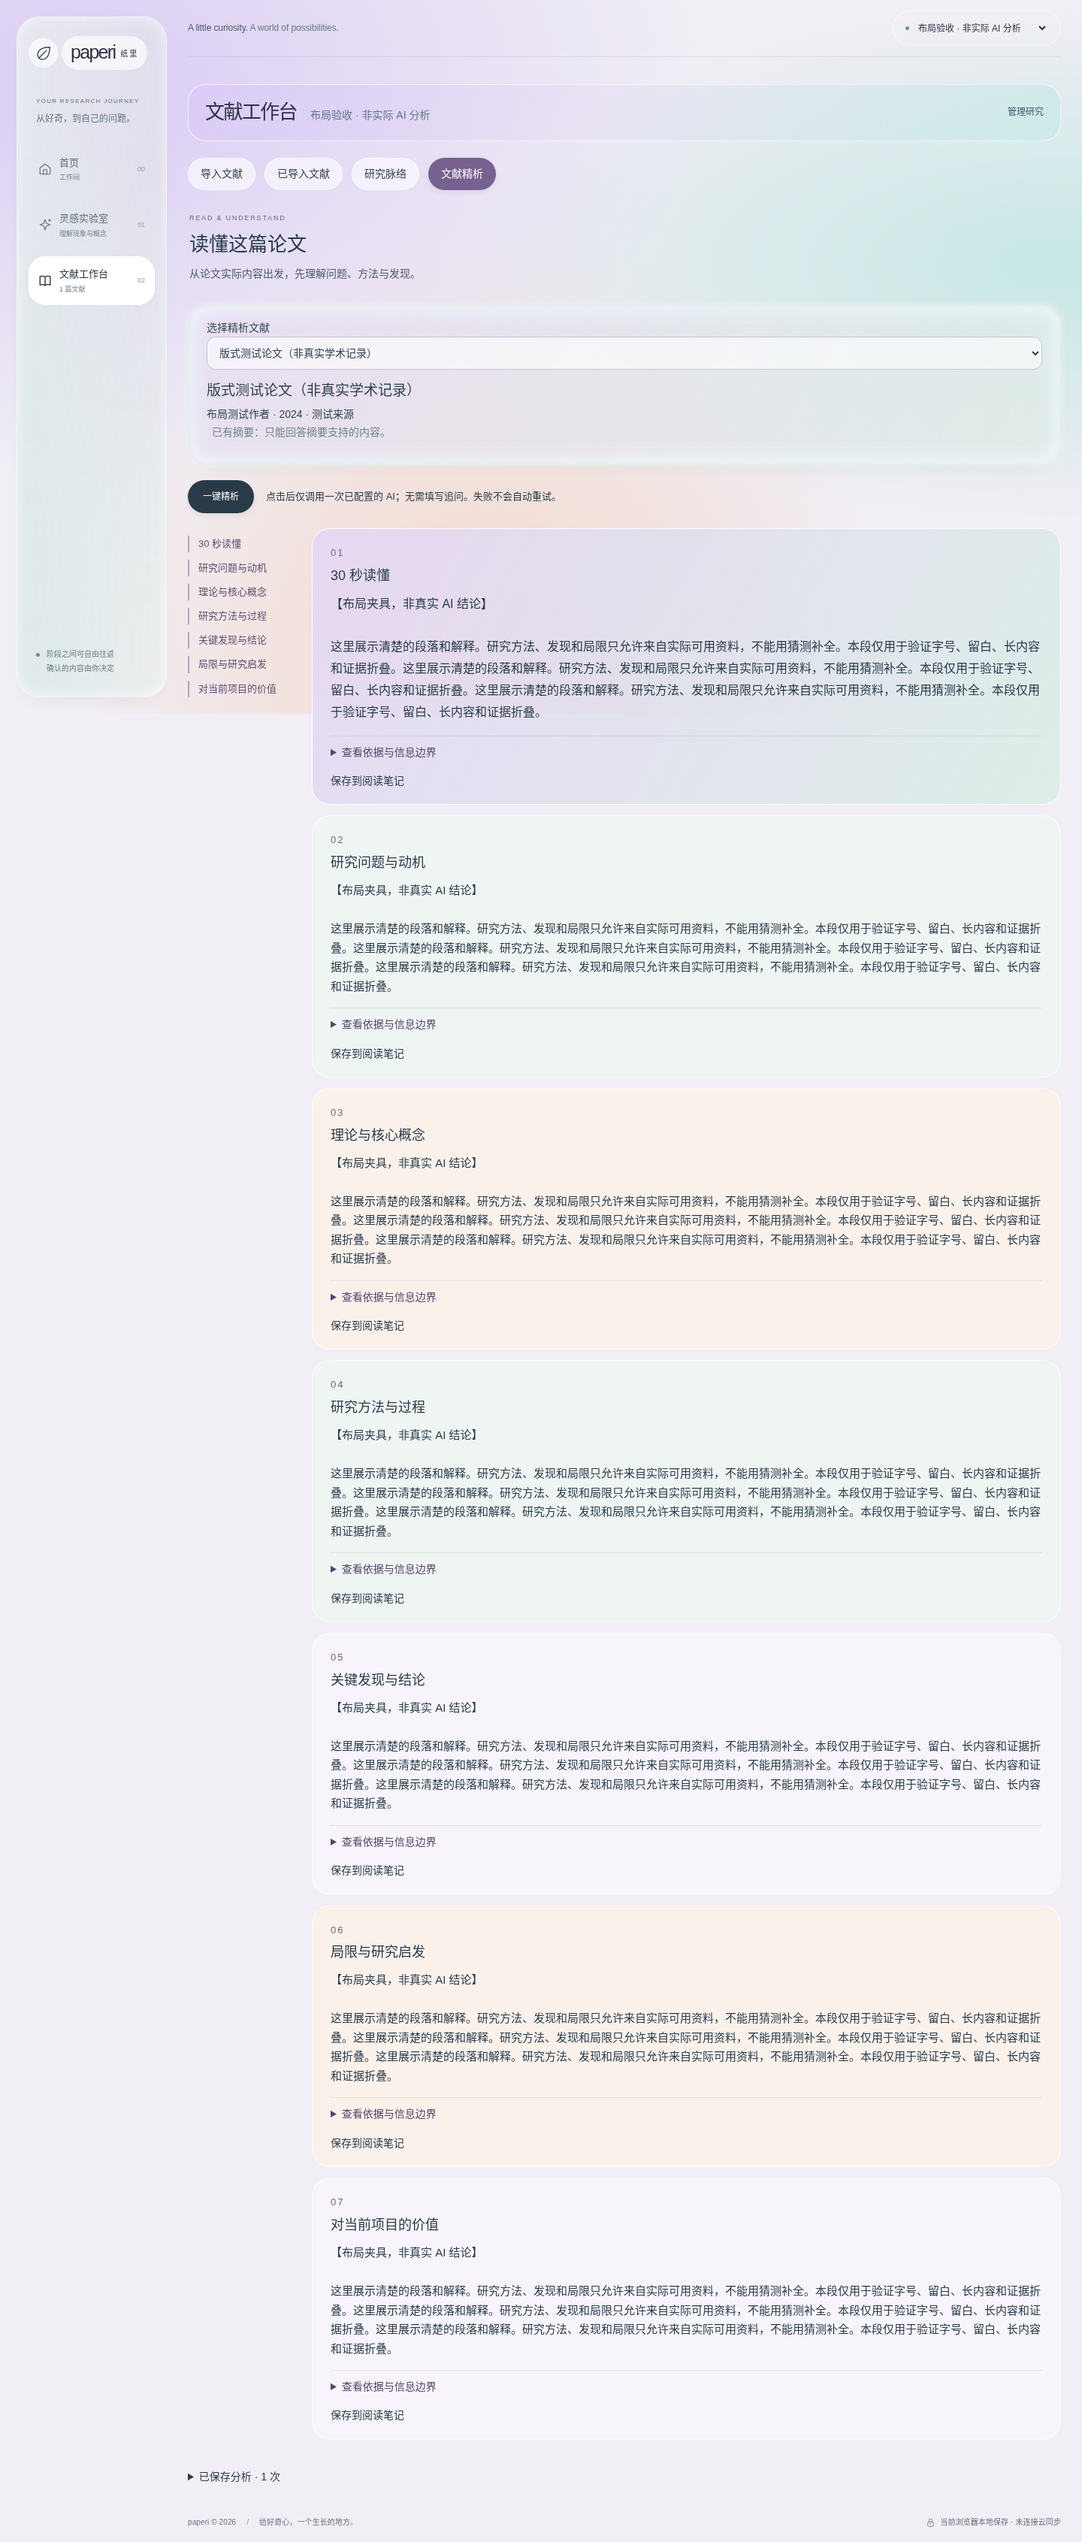
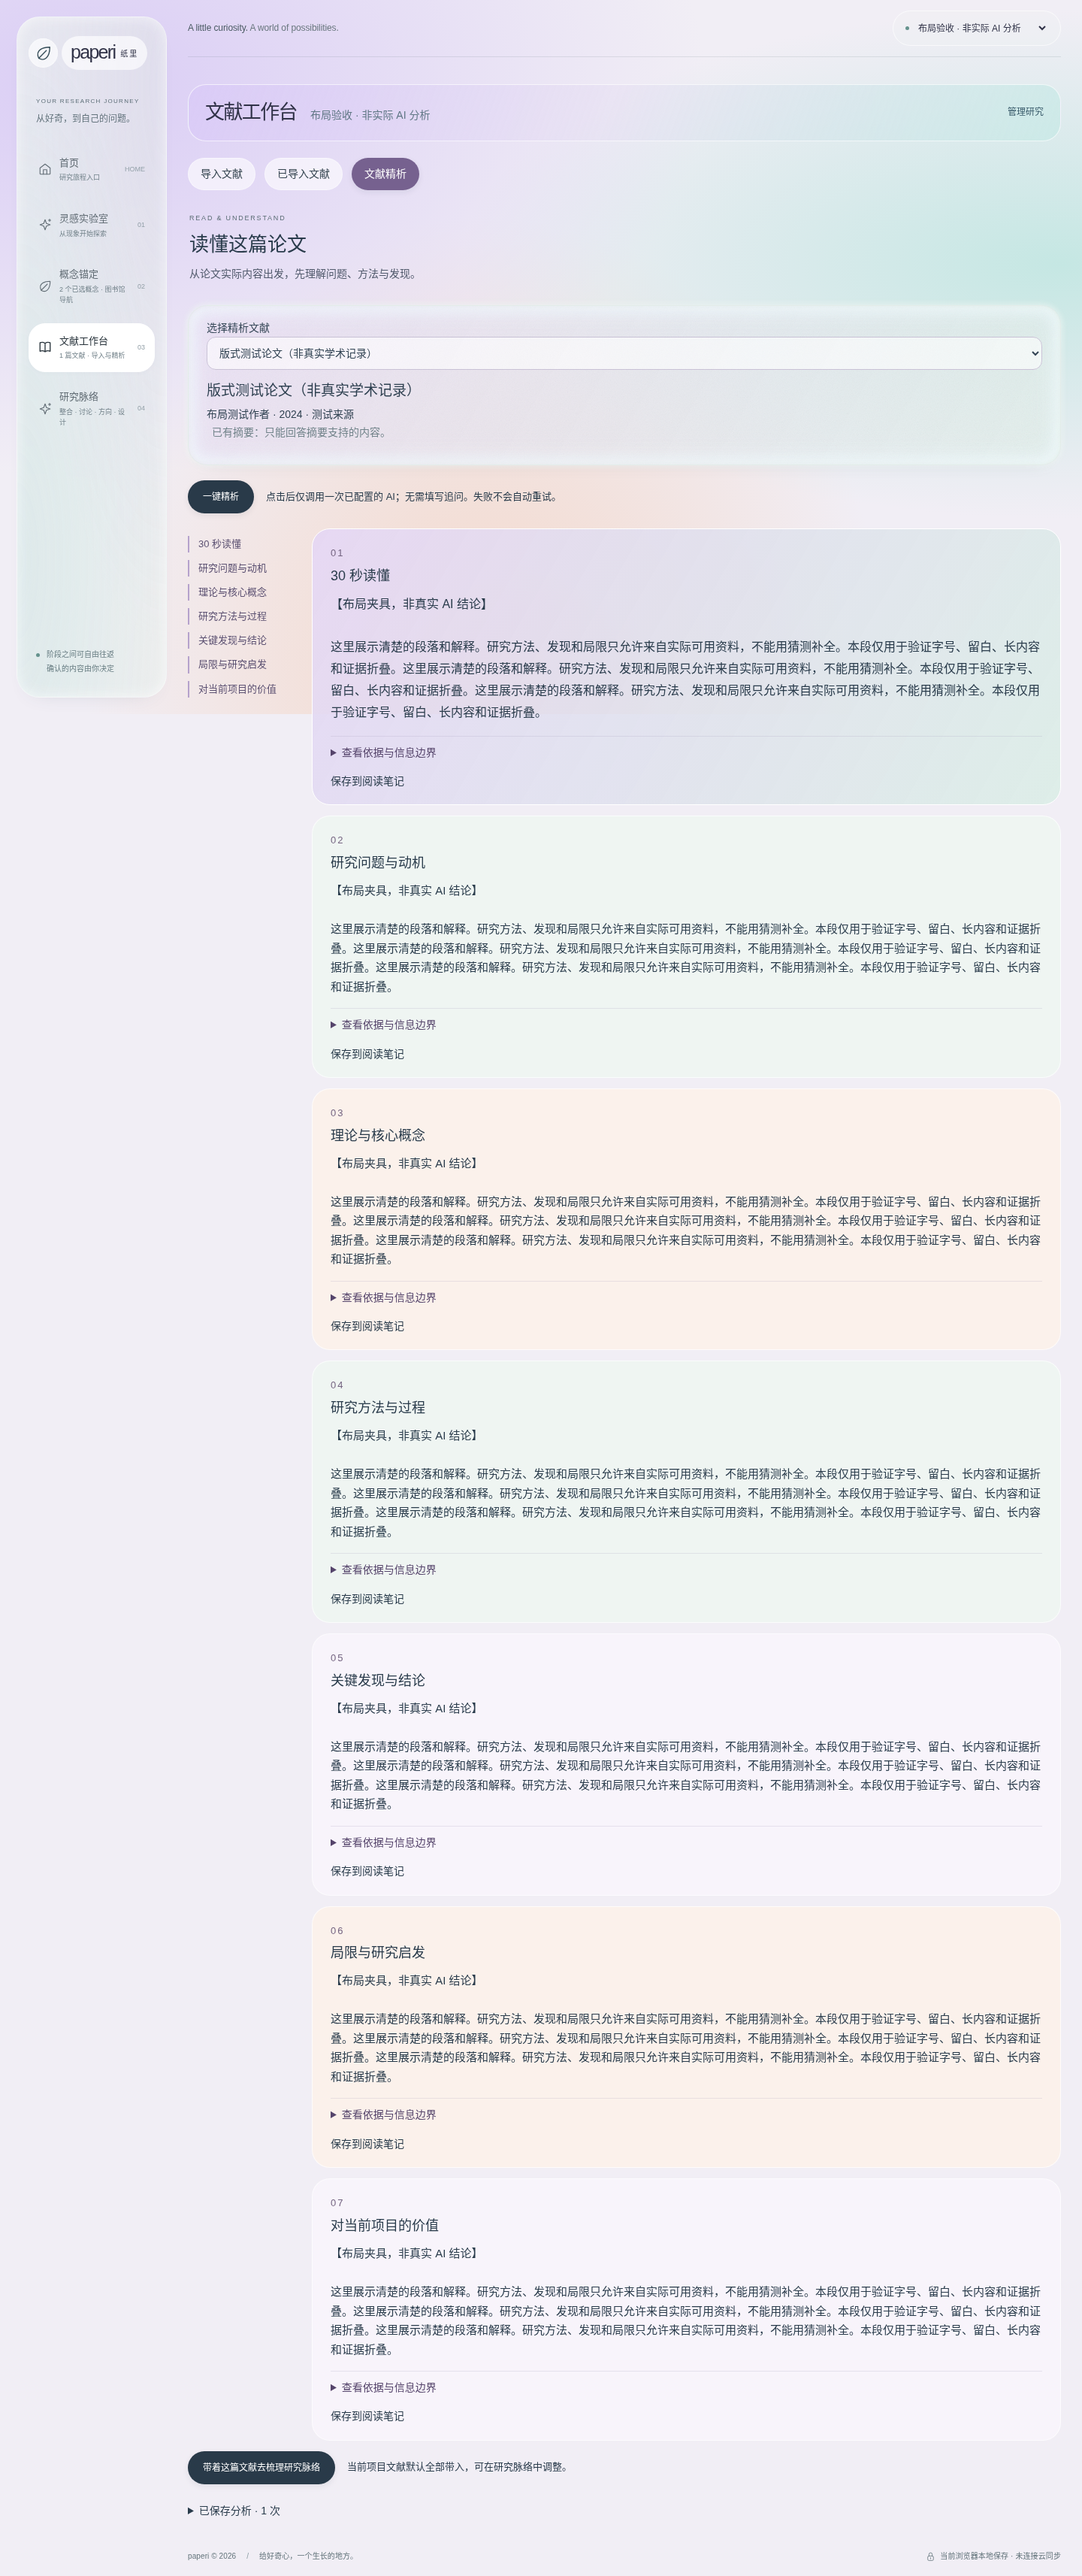
Finalize research journey acceptance, visual consistency and draft protection

diff --git a/src/components/research-journey.tsx b/src/components/research-journey.tsx
@@ -2,6 +2,7 @@
 import Link from "next/link";
 import { useEffect, useRef, useState } from "react";
 import type { Project } from "@/lib/projects";
+import { isRecord } from "@/lib/exploration";
 import {
   emptyWorkflow,
   workflowEvidence,
@@ -61,7 +62,10 @@ const recoveryKey = (id: string) => `paperi.research.inputs.${id}`;
 function recoveredState(p: Project) {
   const saved = researchState(p);
   try {
-    const raw = JSON.parse(localStorage.getItem(recoveryKey(p.id)) ?? "{}");
+    const raw: unknown = JSON.parse(
+      localStorage.getItem(recoveryKey(p.id)) ?? "{}",
+    );
+    if (!isRecord(raw)) return saved;
     const next = { ...saved };
     for (const key of [
       "discussionDraft",
@@ -69,11 +73,31 @@ function recoveredState(p: Project) {
       "directionDraft",
     ] as InputKey[]) {
       const field = raw[key];
-      if (field && JSON.stringify(field.base) === JSON.stringify(saved[key])) {
-        Object.assign(next, { [key]: field.value });
+      if (
+        isRecord(field) &&
+        JSON.stringify(field.base) === JSON.stringify(saved[key])
+      ) {
+        const candidate = { ...next, [key]: field.value };
+        const direction = candidate.directionDraft;
+        // An unfinished title is recoverable input; it is never accepted as a saved direction.
+        const checked =
+          isRecord(direction) &&
+          isRecord(direction.card) &&
+          typeof direction.card.title === "string" &&
+          !direction.card.title.trim()
+            ? {
+                ...candidate,
+                directionDraft: {
+                  ...direction,
+                  card: { ...direction.card, title: "未命名方向" },
+                },
+              }
+            : candidate;
+        if (isResearchWorkspace(checked))
+          Object.assign(next, { [key]: field.value });
       }
     }
-    return isResearchWorkspace(next) ? next : saved;
+    return next;
   } catch {
     return saved;
   }
@@ -779,7 +803,7 @@ function Journey({
               role="log"
               aria-label="项目研究对话"
             >
-              <article className="message message-assistant">
+              <article className="message message-assistant chat-message">
                 <div className="message-body">
                   <p>
                     你从“{p.observation || p.name}”出发
@@ -796,7 +820,10 @@ function Journey({
                 </div>
               </article>
               {r.messages.map((m) => (
-                <article key={m.id} className={`message message-${m.role}`}>
+                <article
+                  key={m.id}
+                  className={`message message-${m.role} chat-message ${m.role === "user" ? "chat-user" : ""}`}
+                >
                   <div className="message-body">
                     <p>{m.content}</p>
                     {m.fingerprint && m.fingerprint !== fingerprint && (

diff --git a/src/components/research-design.tsx b/src/components/research-design.tsx
@@ -345,7 +345,11 @@ function DesignHistory({
       <p>旧版本始终可回看。恢复时，当前版本也会保留。</p>
       <label>
         选择历史版本
-        <select aria-label="选择历史版本" value={index} onChange={(e) => setIndex(e.target.value)}>
+        <select
+          aria-label="选择历史版本"
+          value={index}
+          onChange={(e) => setIndex(e.target.value)}
+        >
           <option value="">选择一个版本</option>
           {history.map((d, i) => (
             <option value={i} key={`${d.id}-${d.updatedAt}-${i}`}>
@@ -426,6 +430,18 @@ function DesignEditor({
       : draft.themes.length > 0 &&
         draft.questions.length > 0 &&
         !draft.outlineNeedsReview);
+  const phaseHasContent =
+    step === 0
+      ? !!draft.question.trim()
+      : step === 3
+        ? !!(draft.method.trim() || draft.analysis.trim())
+        : isQuant(draft)
+          ? step === 1
+            ? draft.variables.length > 0
+            : draft.hypotheses.length > 0
+          : step === 1
+            ? draft.themes.length > 0
+            : draft.questions.length > 0;
   function edit(next: Design) {
     const d = { ...next, confirmed: false };
     draftRef.current = d;
@@ -526,7 +542,7 @@ function DesignEditor({
     if (dirty) void save();
   };
   return (
-    <div className="rd-editor">
+    <div className="rd-editor" inert={busy} aria-busy={busy}>
       <div className="rd-editor-status">
         <span className="soft-badge">
           {draft.confirmed ? "用户已确认 · 初步方案" : "AI 建议 / 用户编辑草稿"}
@@ -580,7 +596,7 @@ function DesignEditor({
           disabled={busy || directionChanged}
           onClick={() => void generate()}
         >
-          AI 帮我梳理这一环节
+          {phaseHasContent ? "重新建议这一环节" : "AI 帮我梳理这一环节"}
         </button>
       </div>
       <p className="rd-step-note">

diff --git a/src/app/research-journey.css b/src/app/research-journey.css
@@ -459,3 +459,30 @@
 .rj-chat-sources > ul {
   padding-left: 18px;
 }
+
+/* Keep evidence labels legible on light glass and reuse the Lab's message surfaces. */
+.rj-section-grid .soft-badge,
+.rd-editor-status .soft-badge {
+  color: #405769;
+  background: #dce8edc9;
+  border: 1px solid #b5c9d17a;
+  font-size: 12px;
+  line-height: 1.5;
+}
+.rj-chat .lab-chat-heading .eyebrow {
+  color: #c2d7e2;
+}
+.rj-chat .message {
+  width: fit-content;
+}
+.rj-chat .message .message-body p {
+  font-size: 15px;
+  line-height: 1.8;
+}
+.app-shell:has(.research-journey) .global-feedback:not(:empty) {
+  position: static;
+  max-width: none;
+  margin: 0 0 12px;
+  padding: 9px 16px;
+  box-shadow: none;
+}

diff --git a/src/app/literature/page.tsx b/src/app/literature/page.tsx
@@ -13,8 +13,12 @@ export default async function Page({
   }>;
 }) {
   const { query, project, concepts, mode, history } = await searchParams;
-  if (mode === "context")
-    redirect(`/research${history === "1" ? "?history=1" : ""}`);
+  if (mode === "context") {
+    const params = new URLSearchParams();
+    if (history === "1") params.set("history", "1");
+    if (typeof project === "string") params.set("project", project);
+    redirect(`/research${params.size ? `?${params}` : ""}`);
+  }
   return (
     <Literature
       showHistory={history === "1"}

diff --git a/docs/RESEARCH_JOURNEY.md b/docs/RESEARCH_JOURNEY.md
@@ -1,6 +1,6 @@
 # Paperi：研究脉络、方向共创与初步研究设计
 
-本次增量开发以 `bb147c9` 为基线，保留原项目存储、PDF、文献精析与旧版历史。阶段 A 数据安全 checkpoint 为 `c64fb03`。
+本次增量开发以 `bb147c9` 为基线，保留原项目存储、PDF、文献精析与旧版历史。阶段 A 数据安全 checkpoint 为 `c64fb03`，阶段 B 主流程 checkpoint 为 `5182952`，均已正常推送到 `codex/paperi-stage1`。
 
 ## 入口与工作流程
 
@@ -28,9 +28,9 @@
 
 `paperi.projects.v1`、`paperi.files.v1` 保持不变。新增可选 `workflow.research`，旧项目可直接读取；旧综述/节点设计只读保留并进入完整备份。旧方向卡和脉络通过只读适配展示，不伪造迁移旧设计。
 
-脉络、讨论、候选、确认方向、两种设计各自保存。删除或更新文献只标记资料待复核，保留旧方向、设计和历史引用，可由用户解除已移除文献的关联。变更依赖包含题录、PDF、概念和已保存精析，讨论或设计编辑不会使自身无故过期。异步保存按队列合并本次变更，避免失焦保存被阶段切换覆盖。
+脉络、讨论、候选、确认方向、两种设计各自保存。删除或更新文献只标记资料待复核，保留旧方向、设计和历史引用，可由用户解除已移除文献的关联。变更依赖包含题录、PDF、概念和已保存精析，讨论或设计编辑不会使自身无故过期。异步保存按队列合并本次变更，避免失焦保存被阶段切换覆盖。设计的 AI 请求期间暂停编辑，防止返回结果覆盖等待中输入；取消入口保持可用。已有环节用“重新建议这一环节”明确区分再次付费请求。
 
-正常保存进入项目备份；未完成的输入另有按项目/方法隔离的浏览器恢复副本，版本不符时不会静默覆盖较新的已保存设计。它是输入恢复辅助，正式备份前仍请点击保存。恢复备份创建独立项目，沿用已有 PDF 所有权保护，不会删除原项目文件。
+正常保存进入项目备份；未完成的输入另有按项目/方法隔离的浏览器恢复副本，版本不符时不会静默覆盖较新的已保存设计。未完成的方向名称可以暂时留空并恢复；恢复逐字段核验，损坏的一项不会丢弃其他有效输入，正式项目和确认方向仍保留严格校验。它是输入恢复辅助，正式备份前仍请点击保存。恢复备份创建独立项目，沿用已有 PDF 所有权保护，不会删除原项目文件。
 
 ## Mac ZIP 实际验收
 
@@ -44,4 +44,10 @@
 
 ## 验证记录
 
-阶段 B 的 34 个针对性数据/API/浏览器场景已在首轮与失败复验中全部通过；其中新研究流程浏览器场景 7 项、隔离 HTTP API 场景 4 项、数据层 5 项。完整模拟流程包括三份合成 PDF 的真实解析、七维精析、脉络、讨论偏好、方向确认与两种可编辑设计。桌面 1440px、1366px 与手机 390px 已生成截图并查看。lint、typecheck、build 通过。云环境没有用户的三篇真实中文 PDF 和 AI 密钥；所有模型夹具都明确标记模拟，不代表真实 AI 学术质量验收。真实付费 API 调用为 0，实际 API 费用为 0。
+阶段 B 的 34 个针对性场景已通过，阶段 C 全量回归为 **90 项通过（2.3 分钟）**。2026-10-27 续作只补齐收尾边界；最后再做 **17 项针对性复验，全部通过（47.4 秒）**，包含新增的设计等待期保护、空标题/损坏输入独立恢复及带项目标识的旧路由隔离，没有无意义重跑全套。lint、typecheck、build 均通过。
+
+完整模拟流程包括三份合成 PDF 经真实 PDF 解析器导入、七维精析、跨文献脉络、讨论和偏好、方向修改确认、定量变量/假设与 SVG 编辑同步、质性主题与提纲、复制和打印。测试还涵盖无密钥、401、402、429、超时、坏 JSON、伪造来源、资料更新、项目隔离、保存失败只重试保存、旧数据与 PDF 副本删除保护。定量与质性 HTTP 测试以独立服务进程隔离配额，生产限流没有放宽。
+
+已在 1440px、1366px 与 390px 检查布局，查看本轮桌面聊天和手机设计截图；修正浅色卡片标签对比度，统一聊天气泡，并把研究工作区保存提示改为正文上方状态条，避免遮挡。截图位于 `docs/screenshots/research-journey/`，明确使用模拟材料。
+
+云环境没有用户的三篇真实中文 PDF 和 AI 密钥；未完成真实用户 PDF + DeepSeek 的学术质量联调。模拟通过只证明软件数据流、错误保护与交互，不能冒充真实研究成果。真实付费 API 调用 **0 次**，实际 API 费用 **0**。本地真实使用时每次 AI 操作可能按所配置服务商计费；本轮不购买额外服务。

diff --git a/README.md b/README.md
@@ -1,12 +1,12 @@
 # Paperi 纸里
 
-**把一个模糊想法，变成有文献依据、能够继续完善的研究方向。**
+**把一个模糊想法，变成有文献依据、由你参与确认的初步研究方案。**
 
-当前主流程：灵感探索 → 概念锚定 → 学校图书馆检索 → 批量导入文献 → 读懂论文 → 选择并保存研究方向卡。
+当前主流程：灵感探索 → 概念锚定与学校图书馆检索 → 导入/读懂论文 → 跨文献研究脉络 → AI 方向共创 → 用户确认方向 → 定量或质性初步研究设计。
 
-主导航只有首页、灵感实验室、文献工作台。站内搜索、引用星图和独立综述/设计/框架页面已从主流程撤下。旧项目、综述、设计资料和 PDF 存储仍保留；旧页面链接转入文献工作台，历史资料可只读查看或通过项目备份保存。
+首页之外有四个专业模块：灵感实验室、概念锚定、文献工作台、研究脉络。研究脉络内部包含文献整合、方向讨论、方向确认和研究设计，支持可编辑的定量模型及独立质性路径。站内检索、引用星图和旧节点画布不作为主流程；旧项目、综述、设计和 PDF 仍保留，旧路由安全转入研究脉络，历史只读可备份。
 
-[两阶段实施记录、实际测试、能力边界及 Mac 最少真实复验步骤](docs/CORE_REDUCTION.md)。桌面与手机截图位于 [docs/screenshots/core](docs/screenshots/core/)，其中分析内容是明确标注的布局测试夹具，不能证明真实 AI 论文精析质量。
+[本轮实施与验收记录、数据保护、能力边界及 Mac 真实复验步骤](docs/RESEARCH_JOURNEY.md)。[桌面与手机研究工作区截图](docs/screenshots/research-journey/) 使用明确标注的测试夹具，不能证明真实 AI 学术分析质量。较早的产品收缩记录保留在 [CORE_REDUCTION.md](docs/CORE_REDUCTION.md)。
 
 ## Mac ZIP 安全更新
 
